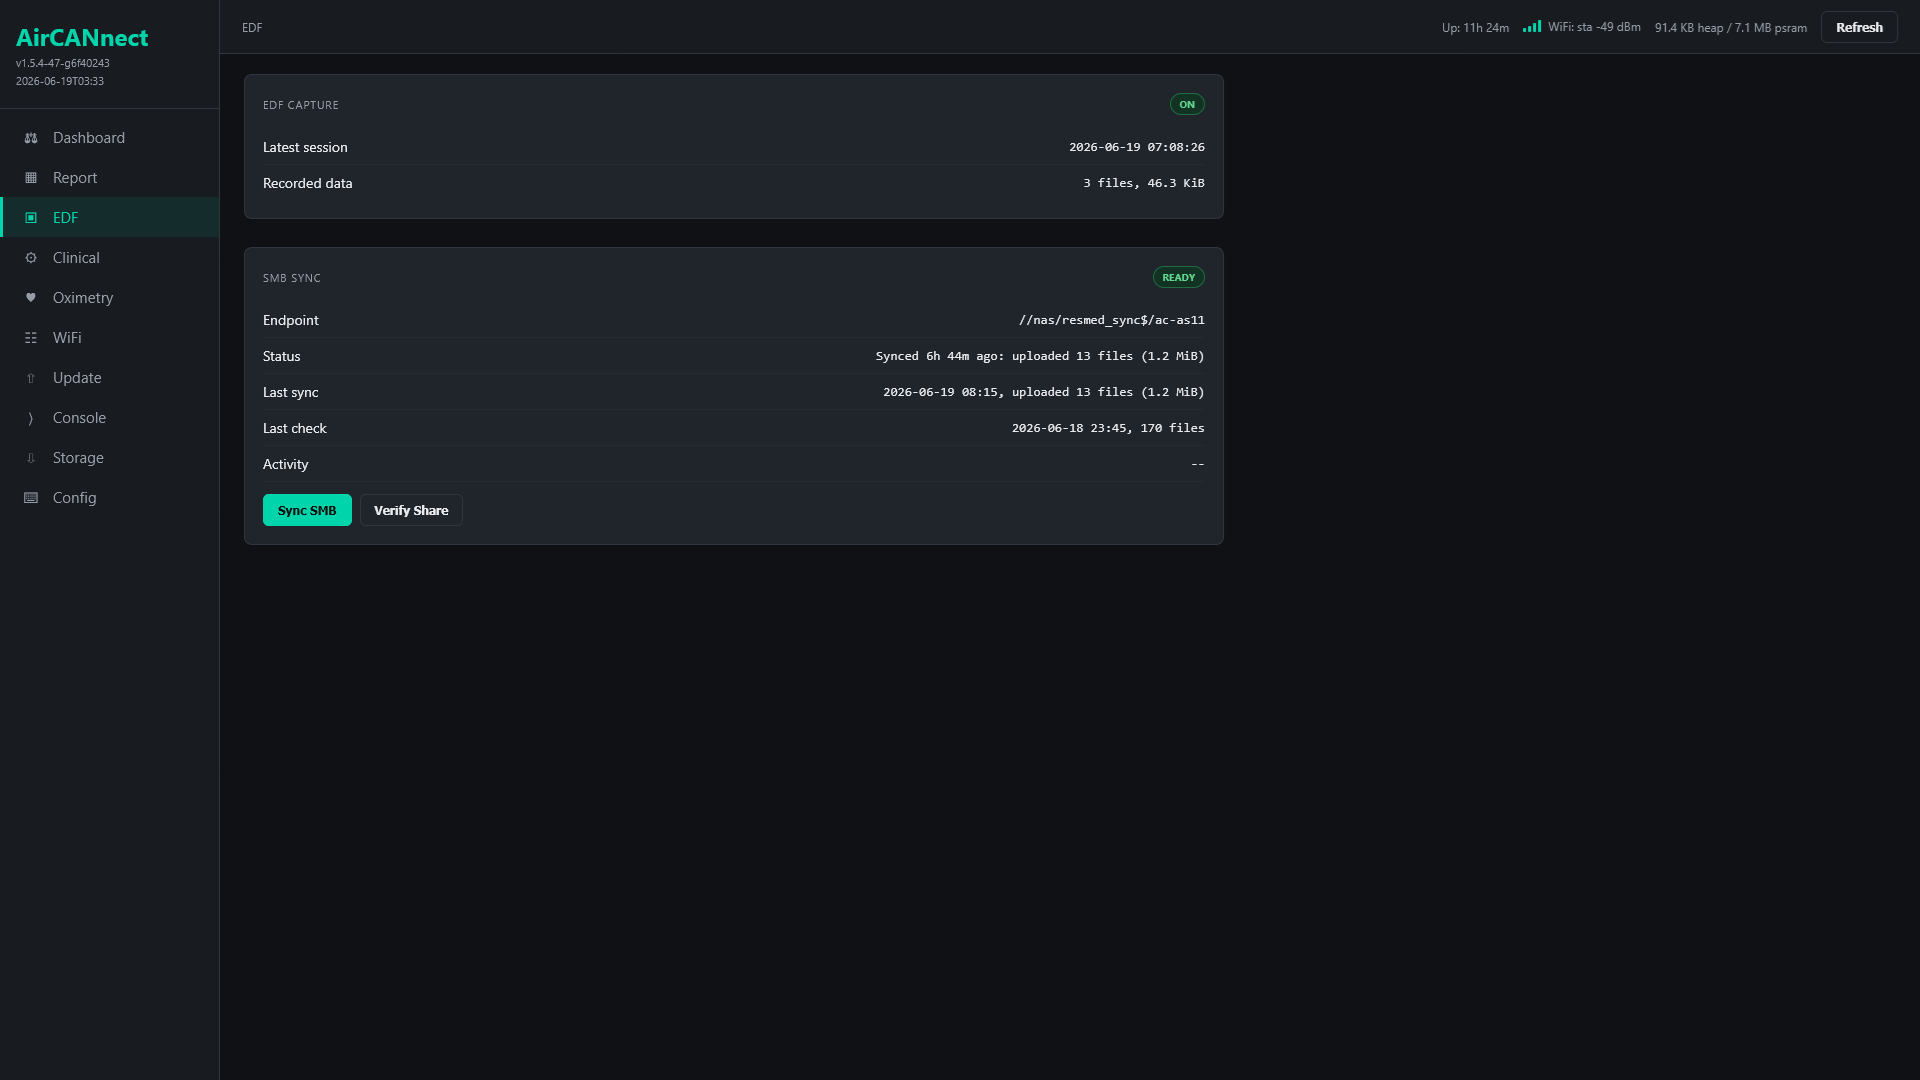
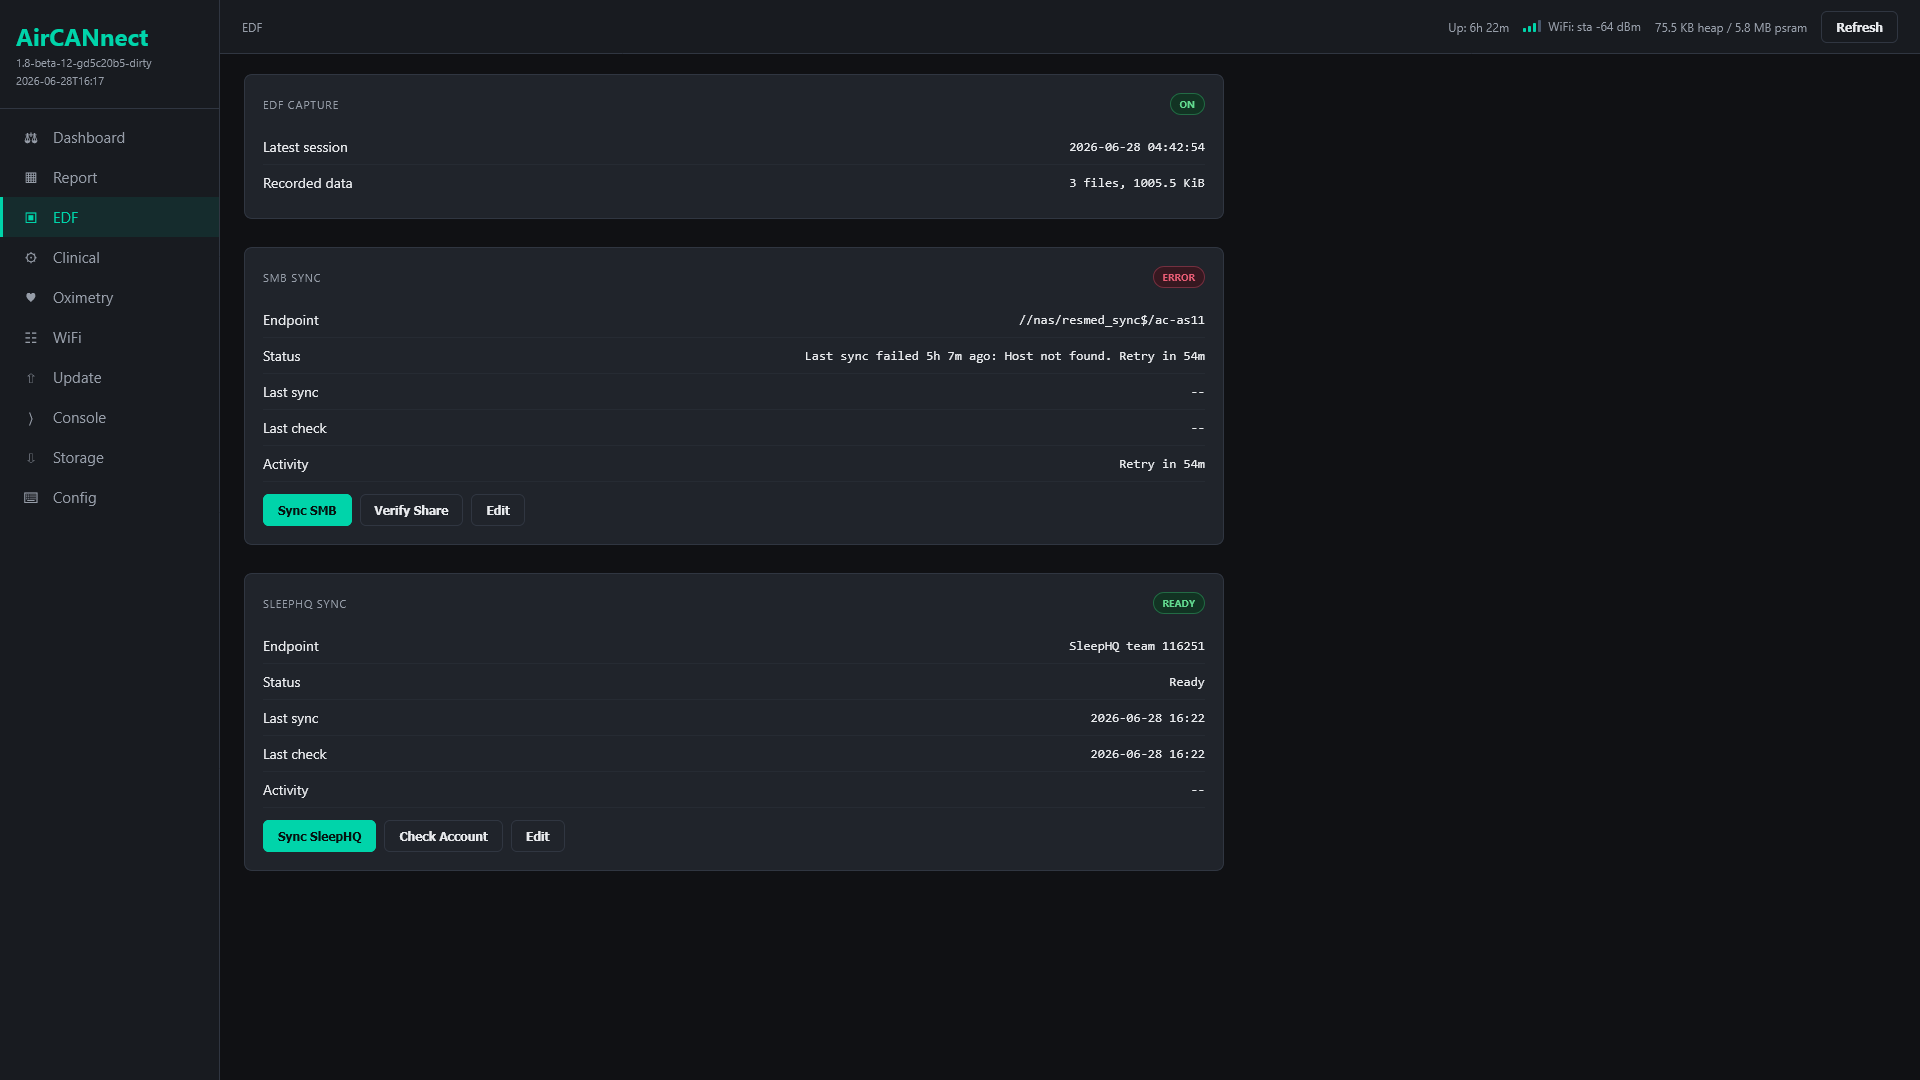
docs: update quickstart, edf tab screenshot

diff --git a/docs/quickstart.md b/docs/quickstart.md
@@ -45,13 +45,11 @@ ssid_0=your-network
 pass_0=your-password
 ```
 
-Multiple profiles use `ssid_0` / `pass_0` through `ssid_3` / `pass_3`. Any
-other config field (hostname, country, timezone, HTTP auth, etc.) can be
-seeded the same way or left for the web UI to set later. The timezone
-specifically takes a POSIX TZ string like `CET-1CEST,M3.5.0,M10.5.0/3` -
-the web UI Config tab has user-friendly picker and auto-detect so
-you do not need to write one by hand. Full key reference:
-[configuration.md](configuration.md).
+Multiple profiles use `ssid_0` / `pass_0` through `ssid_3` / `pass_3`.
+Common boot settings such as `host`, `wifi_ctry`, `tz`, `http_user`,
+`http_pass`, `syslog_en`, `oxi_en`, `smb_ep`, and `shq_id` can also be seeded
+this way. `config.txt` uses exact NVS keys; no aliases are accepted.
+Full key reference: [configuration.md](configuration.md).
 
 After the first STA profile is stored, SoftAP stays as a recovery fallback.
 Set `softap_mode=forced` to keep it up alongside STA.